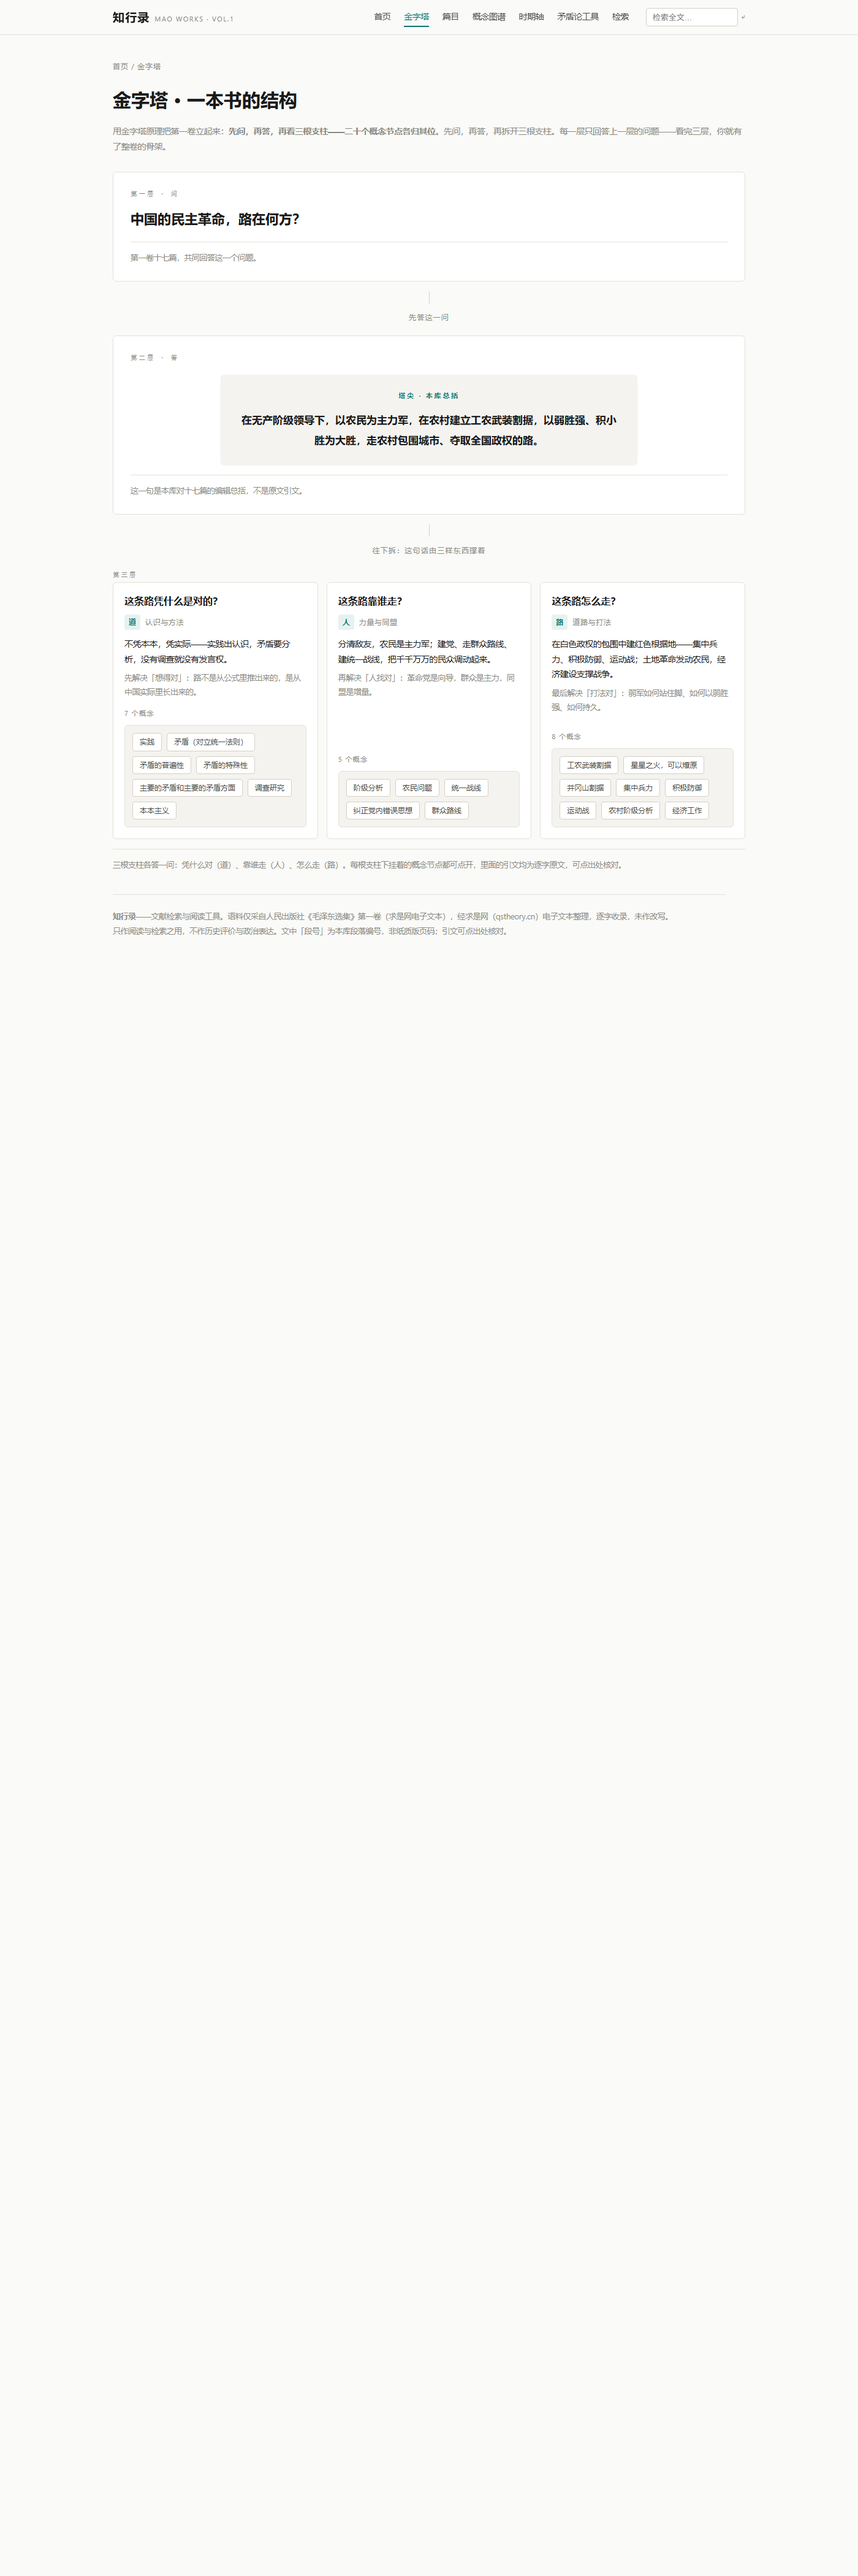
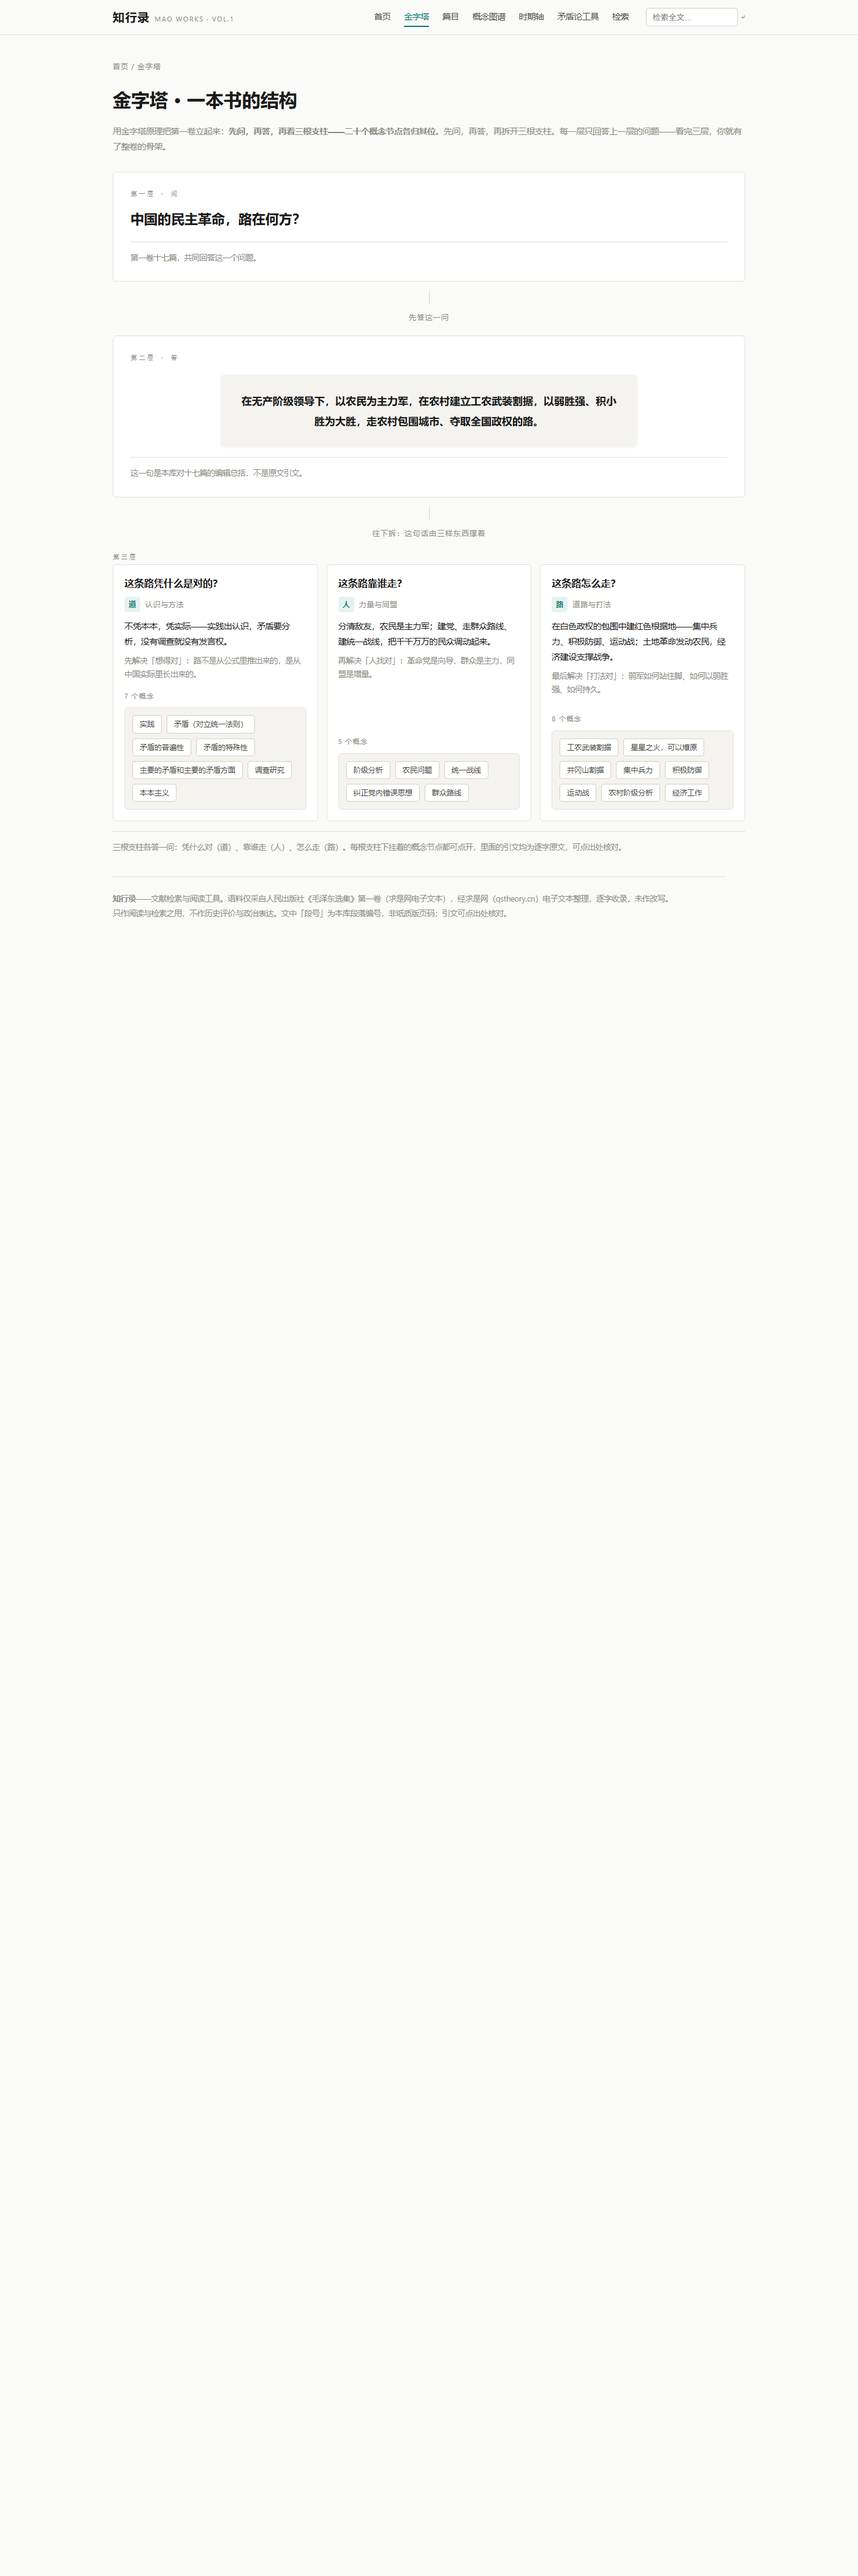
删掉「塔尖 · 本库总括」小标签（用户「塔尖就不要了，你讲这个有啥用」）：
① 该标签是自造术语——「塔尖」是本库借用金字塔原理的内部说法，读者进页面第一眼看到的却是它，等于先解释术语再给内容；而卡片内容本身就是答案，不需要头衔。

② 清理：build.py 答层 inner 去掉 .pyr-tag 一层；style.css 删 `.pyr-tag` 整条规则（无引用后成死样式）；pyramid.json apex.label 字段删除；.pyr-apex-t 去掉 margin-top:12px（原为与标签拉距），.pyr-apex 内距 24/28 → 26/30 补回视觉平衡。

③ verify_site 通过（44 页无死链、版本号统一 v17），截图目检第二层只剩纸色卡+答案句；style.css?v=17

Changed region(s): [[0.1229, 0.2183, 0.86, 0.3743], [0.2764, 0.156, 0.7064, 0.2183], [0.7371, 0.3431, 0.7679, 0.3743]]

diff --git a/site/assets/style.css b/site/assets/style.css
@@ -281,16 +281,16 @@ a.term:hover { border-bottom-color: var(--teal); }
 
 /* ---------- 金字塔（原理页） ---------- */
 .pyr { margin-top: 8px; }
-/* 塔尖白卡，无边框（曾用 1.5px teal 边框，与外层层卡叠成双层框）；
-   去掉边框后白卡与层卡白底会糊成一片，故给浅纸色底+细投影把卡托起来 */
+/* 塔尖卡，无边框（曾用 1.5px teal 边框，与外层层卡叠成双层框）；去掉边框后白卡会溶进层卡白底，
+   故给浅纸色底+细投影把卡托起。「塔尖 · 本库总括」标签已删——术语标签对读者无信息量 */
 .pyr-apex {
   max-width: 680px; margin: 0 auto; background: var(--paper-2);
-  border-radius: 6px; padding: 24px 28px; text-align: center;
+  border-radius: 6px; padding: 26px 30px; text-align: center;
   box-shadow: 0 1px 3px rgba(16, 51, 58, 0.06);
 }
-.pyr-tag { font-size: 11px; color: var(--teal); letter-spacing: 0.25em; font-weight: 600; }
-.pyr-apex-t { font-family: var(--display); font-size: 17px; font-weight: 700; line-height: 1.95; margin-top: 12px; }
+.pyr-apex-t { font-family: var(--display); font-size: 17px; font-weight: 700; line-height: 1.95; }
 .pyr-branches { display: grid; grid-template-columns: repeat(3, 1fr); gap: 14px; }
+
 /* 支柱卡：问句当头（读者先看懂这张卡在答什么），道/人/路退为副标题 */
 .pyr-br-q { font-family: var(--display); font-size: 16px; font-weight: 700; color: var(--ink); line-height: 1.5; margin: 0 0 10px; }
 .pyr-br-hd { display: flex; align-items: baseline; gap: 8px; }

diff --git a/site/pyramid.html b/site/pyramid.html
@@ -5,7 +5,7 @@
 <meta name="viewport" content="width=device-width, initial-scale=1.0">
 <title>金字塔 · 知行录</title>
 <meta name="description" content="知行录：《毛泽东选集》第一卷结构化知识库。17 篇正式出版文本，20 个概念节点，46 条溯源引文，每一段都可回溯到卷/篇/段。">
-<link rel="stylesheet" href="assets/style.css?v=16">
+<link rel="stylesheet" href="assets/style.css?v=17">
 </head>
 <body>
 <header class="topbar"><div class="topbar-in">
@@ -24,7 +24,7 @@
 </div><div class="td-conn"><span>先答这一问</span></div><div class="td-layer">
 <div class="td-lv">第二层 · 答</div>
 
-<div class="td-a"><div class="pyr-apex"><div class="pyr-tag">塔尖 · 本库总括</div><div class="pyr-apex-t">在无产阶级领导下，以农民为主力军，在农村建立工农武装割据，以弱胜强、积小胜为大胜，走农村包围城市、夺取全国政权的路。</div></div></div>
+<div class="td-a"><div class="pyr-apex"><div class="pyr-apex-t">在无产阶级领导下，以农民为主力军，在农村建立工农武装割据，以弱胜强、积小胜为大胜，走农村包围城市、夺取全国政权的路。</div></div></div>
 <div class="td-note">这一句是本库对十七篇的编辑总括，不是原文引文。</div>
 </div><div class="td-conn"><span>往下拆：这句话由三样东西撑着</span></div><div class="td-layer-open">
 <div class="td-lv">第三层</div>

diff --git a/site/works/v1-003.html b/site/works/v1-003.html
@@ -5,7 +5,7 @@
 <meta name="viewport" content="width=device-width, initial-scale=1.0">
 <title>中国的红色政权为什么能够存在？ · 知行录</title>
 <meta name="description" content="知行录：《毛泽东选集》第一卷结构化知识库。17 篇正式出版文本，20 个概念节点，46 条溯源引文，每一段都可回溯到卷/篇/段。">
-<link rel="stylesheet" href="../assets/style.css?v=16">
+<link rel="stylesheet" href="../assets/style.css?v=17">
 </head>
 <body>
 <header class="topbar"><div class="topbar-in">

diff --git a/site/concepts/zhuyaomaodun.html b/site/concepts/zhuyaomaodun.html
@@ -5,7 +5,7 @@
 <meta name="viewport" content="width=device-width, initial-scale=1.0">
 <title>主要的矛盾和主要的矛盾方面 · 知行录</title>
 <meta name="description" content="知行录：《毛泽东选集》第一卷结构化知识库。17 篇正式出版文本，20 个概念节点，46 条溯源引文，每一段都可回溯到卷/篇/段。">
-<link rel="stylesheet" href="../assets/style.css?v=16">
+<link rel="stylesheet" href="../assets/style.css?v=17">
 </head>
 <body>
 <header class="topbar"><div class="topbar-in">

diff --git a/site/works/v1-011.html b/site/works/v1-011.html
@@ -5,7 +5,7 @@
 <meta name="viewport" content="width=device-width, initial-scale=1.0">
 <title>关心群众生活，注意工作方法 · 知行录</title>
 <meta name="description" content="知行录：《毛泽东选集》第一卷结构化知识库。17 篇正式出版文本，20 个概念节点，46 条溯源引文，每一段都可回溯到卷/篇/段。">
-<link rel="stylesheet" href="../assets/style.css?v=16">
+<link rel="stylesheet" href="../assets/style.css?v=17">
 </head>
 <body>
 <header class="topbar"><div class="topbar-in">

diff --git a/site/works/v1-015.html b/site/works/v1-015.html
@@ -5,7 +5,7 @@
 <meta name="viewport" content="width=device-width, initial-scale=1.0">
 <title>中国共产党在抗日时期的任务 · 知行录</title>
 <meta name="description" content="知行录：《毛泽东选集》第一卷结构化知识库。17 篇正式出版文本，20 个概念节点，46 条溯源引文，每一段都可回溯到卷/篇/段。">
-<link rel="stylesheet" href="../assets/style.css?v=16">
+<link rel="stylesheet" href="../assets/style.css?v=17">
 </head>
 <body>
 <header class="topbar"><div class="topbar-in">

diff --git a/site/works/v1-012.html b/site/works/v1-012.html
@@ -5,7 +5,7 @@
 <meta name="viewport" content="width=device-width, initial-scale=1.0">
 <title>论反对日本帝国主义的策略 · 知行录</title>
 <meta name="description" content="知行录：《毛泽东选集》第一卷结构化知识库。17 篇正式出版文本，20 个概念节点，46 条溯源引文，每一段都可回溯到卷/篇/段。">
-<link rel="stylesheet" href="../assets/style.css?v=16">
+<link rel="stylesheet" href="../assets/style.css?v=17">
 </head>
 <body>
 <header class="topbar"><div class="topbar-in">

diff --git a/site/works/v1-005.html b/site/works/v1-005.html
@@ -5,7 +5,7 @@
 <meta name="viewport" content="width=device-width, initial-scale=1.0">
 <title>关于纠正党内的错误思想 · 知行录</title>
 <meta name="description" content="知行录：《毛泽东选集》第一卷结构化知识库。17 篇正式出版文本，20 个概念节点，46 条溯源引文，每一段都可回溯到卷/篇/段。">
-<link rel="stylesheet" href="../assets/style.css?v=16">
+<link rel="stylesheet" href="../assets/style.css?v=17">
 </head>
 <body>
 <header class="topbar"><div class="topbar-in">

diff --git a/site/works/v1-013.html b/site/works/v1-013.html
@@ -5,7 +5,7 @@
 <meta name="viewport" content="width=device-width, initial-scale=1.0">
 <title>中国革命战争的战略问题 · 知行录</title>
 <meta name="description" content="知行录：《毛泽东选集》第一卷结构化知识库。17 篇正式出版文本，20 个概念节点，46 条溯源引文，每一段都可回溯到卷/篇/段。">
-<link rel="stylesheet" href="../assets/style.css?v=16">
+<link rel="stylesheet" href="../assets/style.css?v=17">
 </head>
 <body>
 <header class="topbar"><div class="topbar-in">

diff --git a/site/concepts/maodun.html b/site/concepts/maodun.html
@@ -5,7 +5,7 @@
 <meta name="viewport" content="width=device-width, initial-scale=1.0">
 <title>矛盾（对立统一法则） · 知行录</title>
 <meta name="description" content="知行录：《毛泽东选集》第一卷结构化知识库。17 篇正式出版文本，20 个概念节点，46 条溯源引文，每一段都可回溯到卷/篇/段。">
-<link rel="stylesheet" href="../assets/style.css?v=16">
+<link rel="stylesheet" href="../assets/style.css?v=17">
 </head>
 <body>
 <header class="topbar"><div class="topbar-in">

diff --git a/site/works/v1-001.html b/site/works/v1-001.html
@@ -5,7 +5,7 @@
 <meta name="viewport" content="width=device-width, initial-scale=1.0">
 <title>中国社会各阶级的分析 · 知行录</title>
 <meta name="description" content="知行录：《毛泽东选集》第一卷结构化知识库。17 篇正式出版文本，20 个概念节点，46 条溯源引文，每一段都可回溯到卷/篇/段。">
-<link rel="stylesheet" href="../assets/style.css?v=16">
+<link rel="stylesheet" href="../assets/style.css?v=17">
 </head>
 <body>
 <header class="topbar"><div class="topbar-in">

diff --git a/site/works/v1-002.html b/site/works/v1-002.html
@@ -5,7 +5,7 @@
 <meta name="viewport" content="width=device-width, initial-scale=1.0">
 <title>湖南农民运动考察报告 · 知行录</title>
 <meta name="description" content="知行录：《毛泽东选集》第一卷结构化知识库。17 篇正式出版文本，20 个概念节点，46 条溯源引文，每一段都可回溯到卷/篇/段。">
-<link rel="stylesheet" href="../assets/style.css?v=16">
+<link rel="stylesheet" href="../assets/style.css?v=17">
 </head>
 <body>
 <header class="topbar"><div class="topbar-in">
